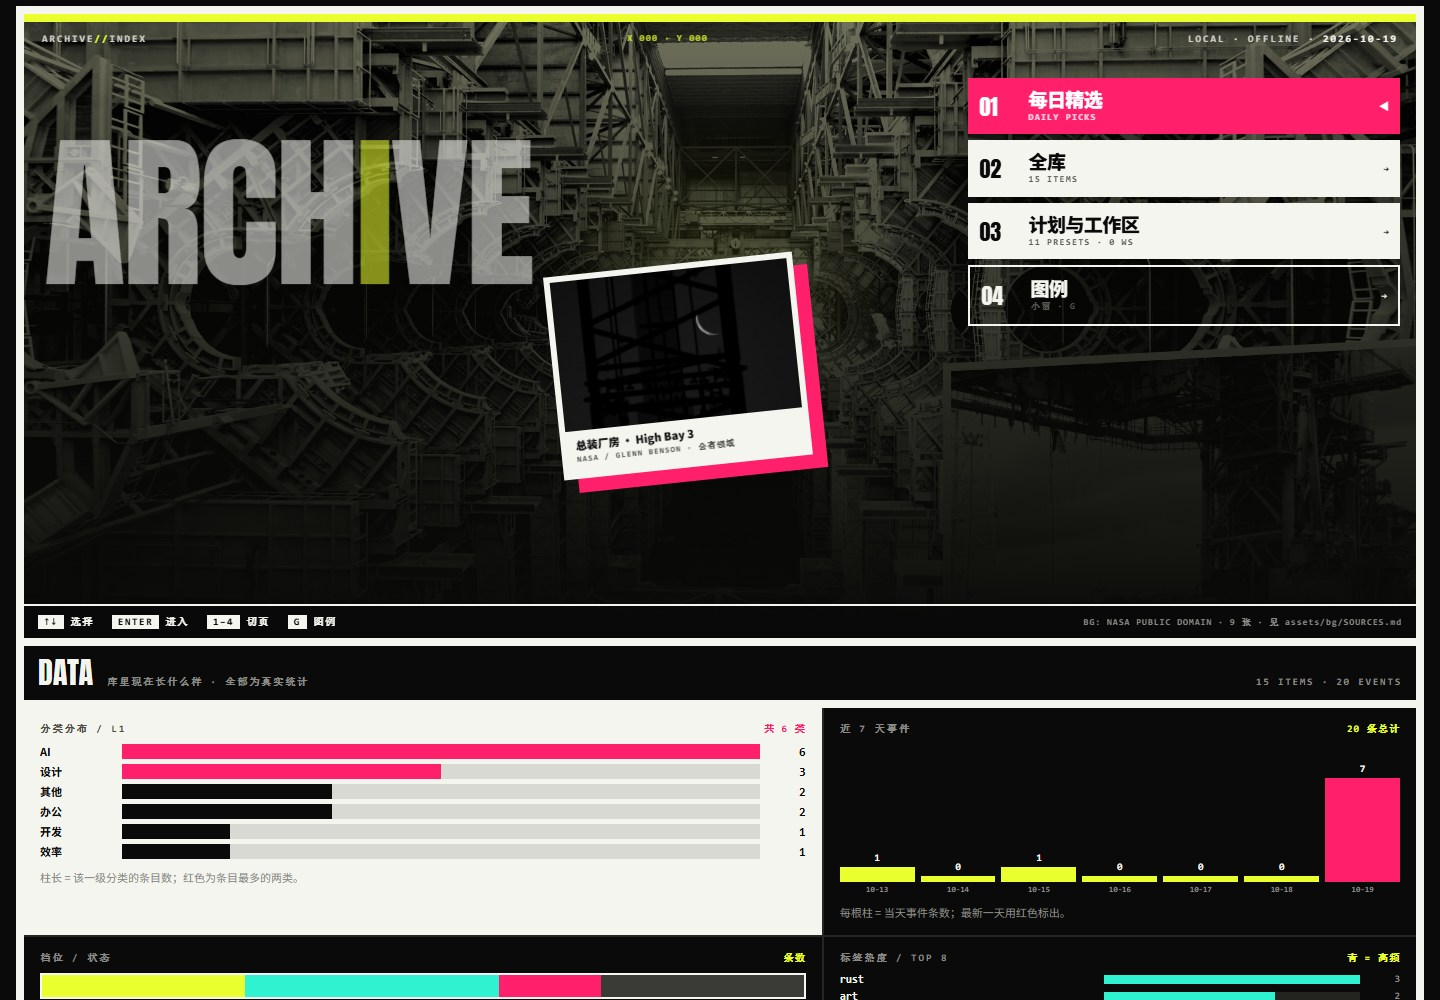
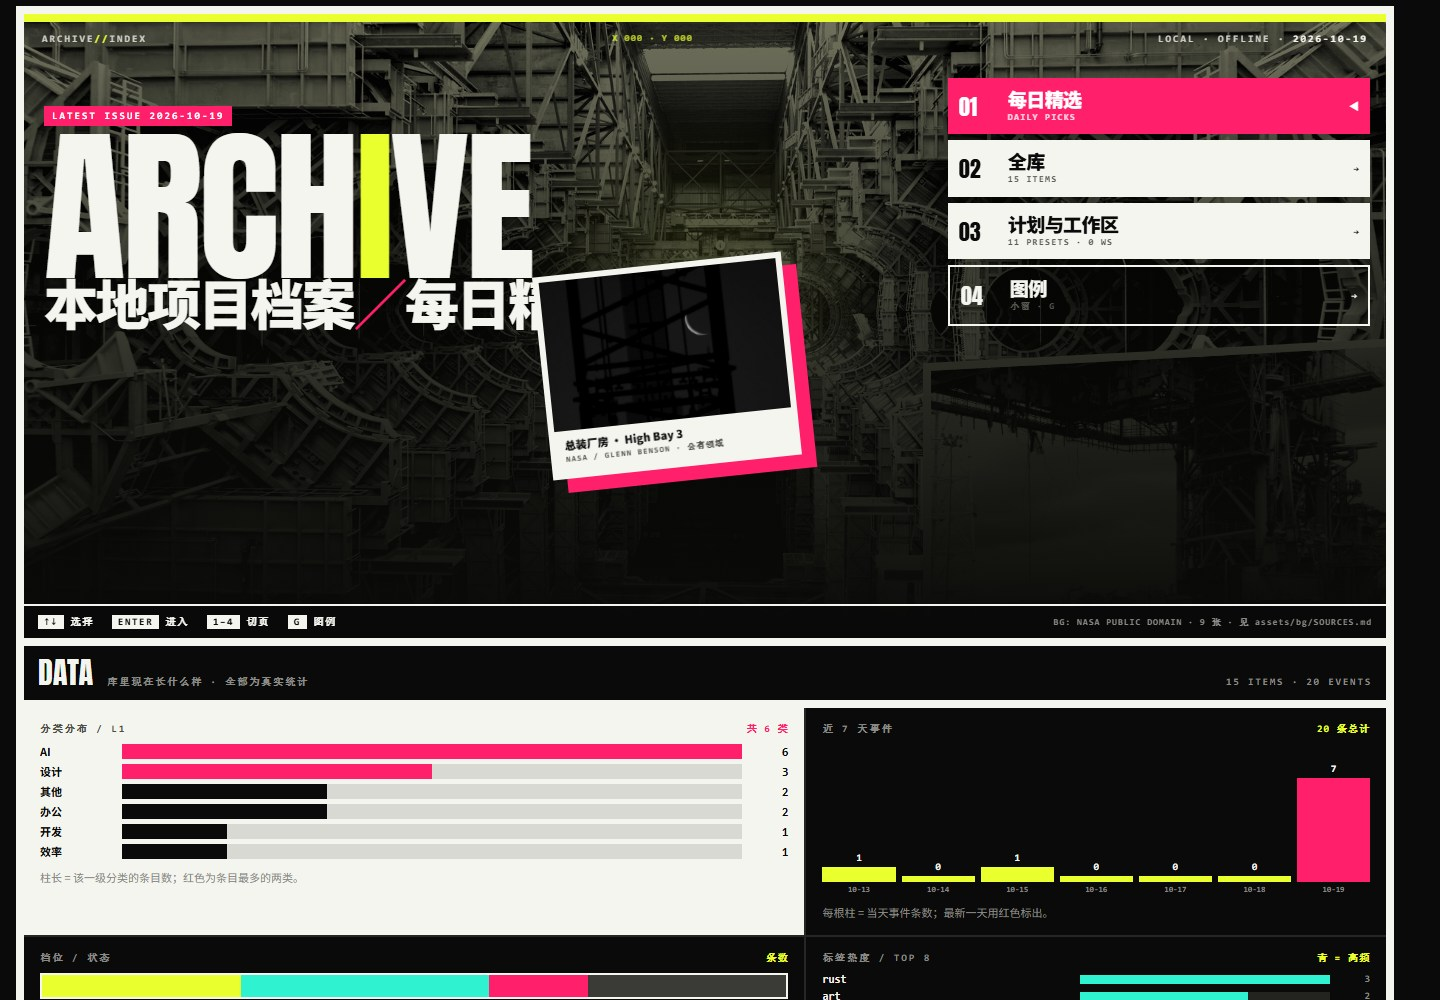
docs: 重拍三张截图（首页 20 EVENTS / 日报 01–06 整页 / 计划页 11 presets）

diff --git a/README.md b/README.md
@@ -71,7 +71,7 @@ Local-first, zero dependencies, double-click to open; all data lives in plain-te
 | 图 / Image | 展示什么 / What it shows | 图注 / Caption |
 |---|---|---|
 | ① `docs/screenshots/1-home.jpg` | 首页：四个入口（每日精选 / 全库 / 计划与工作区 / 图例）+ DATA 看板 / Home: four entries + DATA board | **打开即用的本地项目档案站** / A local project archive that just works |
-| ② `docs/screenshots/2-daily.jpg` | 每日精选：01 主承重跨 + 02 模块阵列（带配图）+ 03 档案层 / Daily picks: 01 lead span + 02 module array + 03 archive | **每天一页结构日报，S/A/B/C/D 是承重等级** / A structured daily brief; S/A/B/C/D are load-bearing tiers |
+| ② `docs/screenshots/2-daily.jpg` | 每日精选：01 今日头条 + 02 重点报道 + 03 观察面 + 04 边栏观察（05 特别栏目 / 06 旧闻新报）/ Daily picks: 01 headline + 02 features + 03 observation + 04 margin (05 special / 06 old friends) | **每天一页结构日报，S/A/B/C/D 是承重等级** / A structured daily brief; S/A/B/C/D are load-bearing tiers |
 | ③ `docs/screenshots/3-plans.jpg` | 计划页：11 个组合预设 + 工作区 / Plans: 11 presets + workspaces | **根据目标组合工具，而不是收藏链接** / Compose tools by goal, not bookmarks |
 
 ---

diff --git a/docs/screenshots/README.md b/docs/screenshots/README.md
@@ -9,7 +9,7 @@
 | 文件名 / File | 拍什么 / What to capture | README 里的图注 / Caption |
 |---|---|---|
 | `1-home.jpg` | **首页**：ARCHIVE 标题、四个入口、下方 DATA 看板 / Home: ARCHIVE title, four entries, DATA board | 打开即用的本地项目档案站 / A local project archive that just works |
-| `2-daily.jpg` | **日报页**：01 主承重跨 + 02 模块阵列（带配图）+ 03 档案层 / Daily page: 01 lead span + 02 module array + 03 archive | 每天一页结构日报，S/A/B/C/D 是承重等级 / A structured daily brief; S/A/B/C/D are load-bearing tiers |
+| `2-daily.jpg` | **日报页**：01 今日头条 + 02 重点报道 + 03 观察面 + 04 边栏观察（05/06 特别栏目与旧闻新报）/ Daily page: 01 headline + 02 features + 03 observation + 04 margin (05/06 special & old friends) | 每天一页结构日报，S/A/B/C/D 是承重等级 / A structured daily brief; S/A/B/C/D are load-bearing tiers |
 | `3-plans.jpg` | **计划页**：11 个组合预设 + 「我的工作区」 / Plans: 11 presets + workspaces | 根据目标组合工具，而不是收藏链接 / Compose tools by goal, not bookmarks |
 
 ## 拍之前的两点注意 / Before shooting
